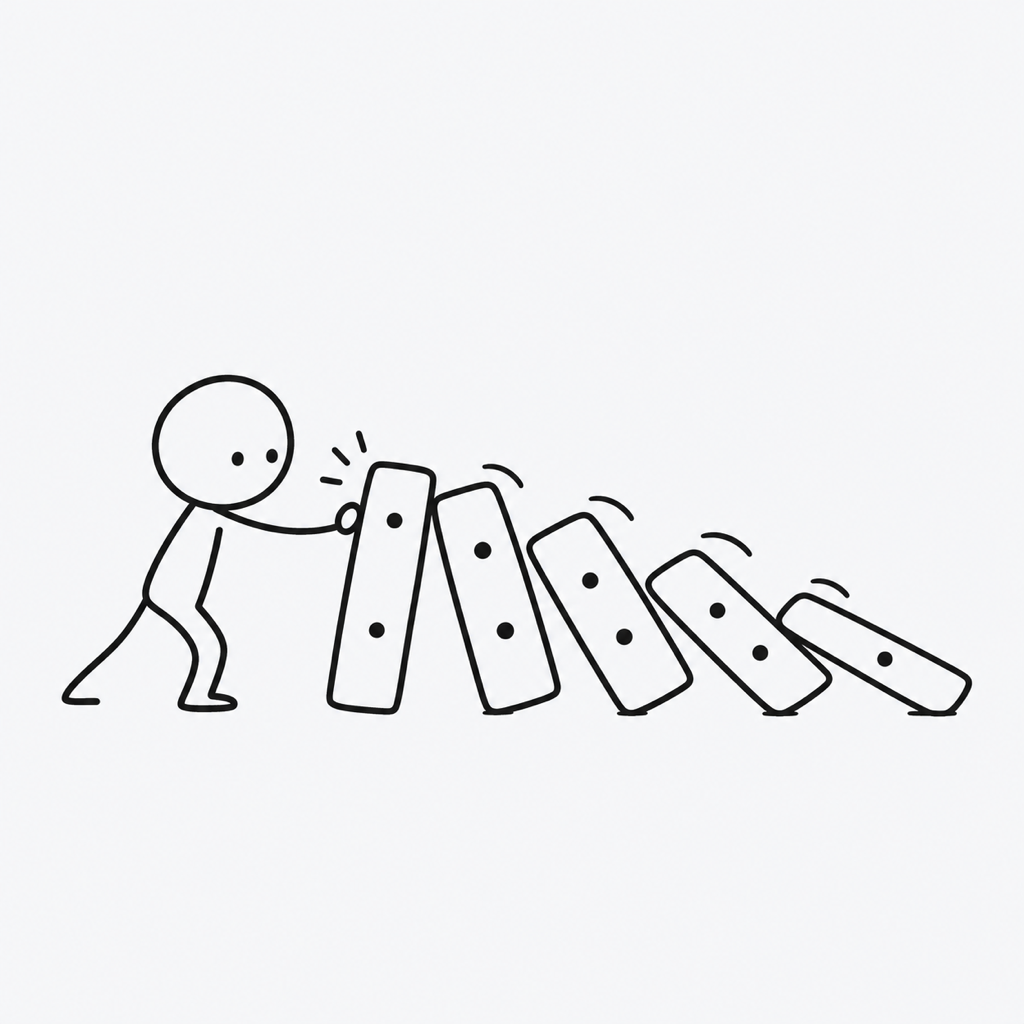
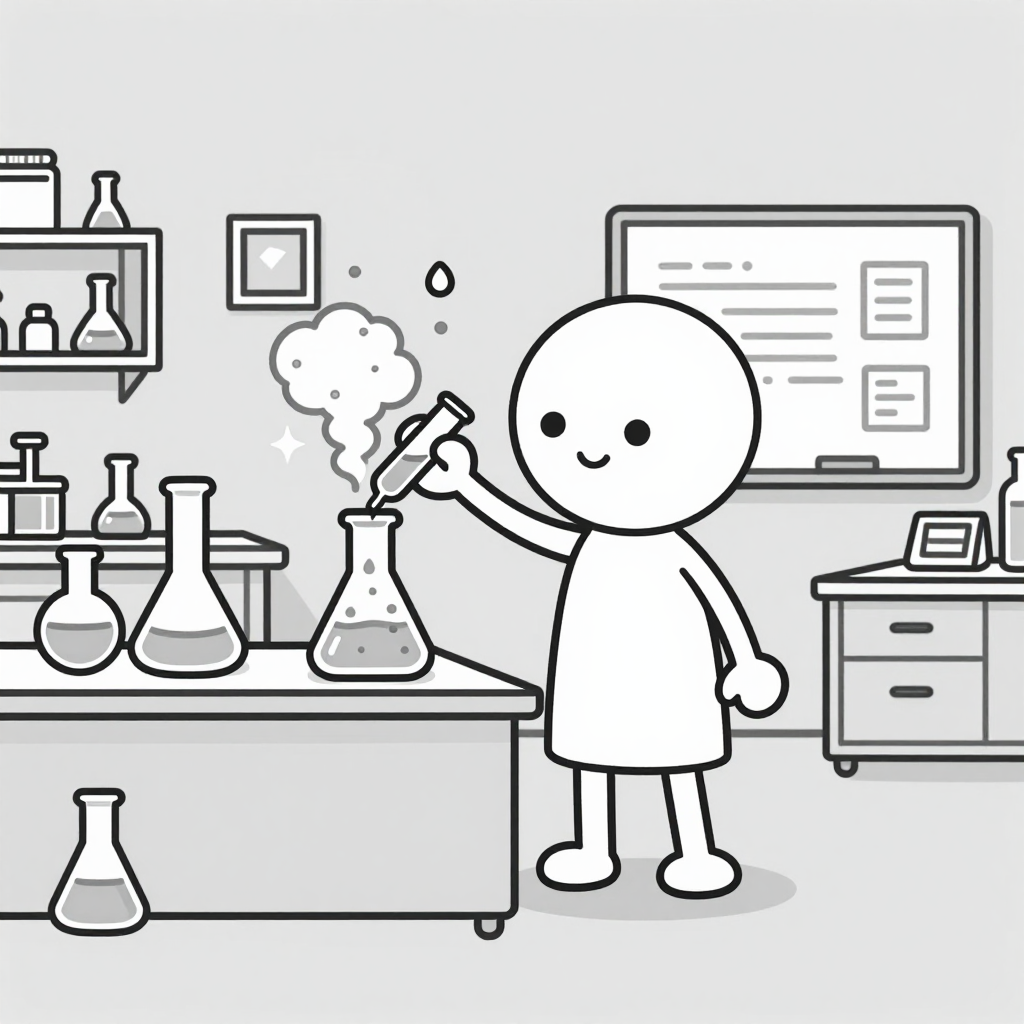
feat: 중1 유닛 4 15~20번(effect~stadium) 선형그래픽 일러스트 6종 생성 및 등록 완료

diff --git a/src/constants/wordImages.ts b/src/constants/wordImages.ts
@@ -757,4 +757,13 @@ export const WORD_IMAGES: Record<string, ImageSourcePropType> = {
   "m1-72": require("../../assets/words/hang.png"),
   "m1-73": require("../../assets/words/besides.png"),
   "m1-74": require("../../assets/words/sample.png"),
+  "m1-75": require("../../assets/words/effect.png"),
+  "absent": require("../../assets/words/absent.png"),
+  "m1-76": require("../../assets/words/absent.png"),
+  "wedding": require("../../assets/words/wedding.png"),
+  "m1-77": require("../../assets/words/wedding.png"),
+  "marry": require("../../assets/words/marry.png"),
+  "m1-78": require("../../assets/words/marry.png"),
+  "m1-79": require("../../assets/words/warn.png"),
+  "m1-80": require("../../assets/words/stadium.png"),
 };

diff --git a/scripts/generate_m1_unit4_linear_skill.py b/scripts/generate_m1_unit4_linear_skill.py
@@ -46,6 +46,31 @@ API_URL = "http://127.0.0.1:7860/sdapi/v1/txt2img"
 SCRIPT_DIR = os.path.dirname(os.path.abspath(__file__))
 PROJECT_ROOT = os.path.dirname(SCRIPT_DIR)
 ASSETS_DIR = os.path.join(PROJECT_ROOT, "assets", "words")
+WORD_IMAGES_TS = os.path.join(PROJECT_ROOT, "src", "constants", "wordImages.ts")
+
+def update_word_images_ts(word: str, word_id: str):
+    if not os.path.exists(WORD_IMAGES_TS):
+        return
+    with open(WORD_IMAGES_TS, "r", encoding="utf-8") as f:
+        content = f.read()
+
+    new_entries = []
+    file_name = word.replace(" ", "-")
+    if f'"{word}": require(' not in content and f'{word}: require(' not in content:
+        new_entries.append(f'  "{word}": require("../../assets/words/{file_name}.png"),')
+    if word_id and f'"{word_id}": require(' not in content:
+        new_entries.append(f'  "{word_id}": require("../../assets/words/{file_name}.png"),')
+
+    if not new_entries:
+        return
+
+    target = "};\n"
+    if target in content:
+        idx = content.rfind(target)
+        updated = content[:idx] + "\n".join(new_entries) + "\n" + content[idx:]
+        with open(WORD_IMAGES_TS, "w", encoding="utf-8") as f:
+            f.write(updated)
+        print(f"[{word}] wordImages.ts 등록 완료: {word_id} -> {file_name}.png", flush=True)
 
 WORDS = [
     {
@@ -246,6 +271,7 @@ def generate_unit4_linear(start_index=1, skip_existing=False):
 
                 elapsed = time.time() - t0
                 print(f"[{word}] 생성 및 저장 완료 ({elapsed:.1f}초) -> {out_path}", flush=True)
+                update_word_images_ts(word, word_id)
                 success = True
                 break
             except Exception as e:
